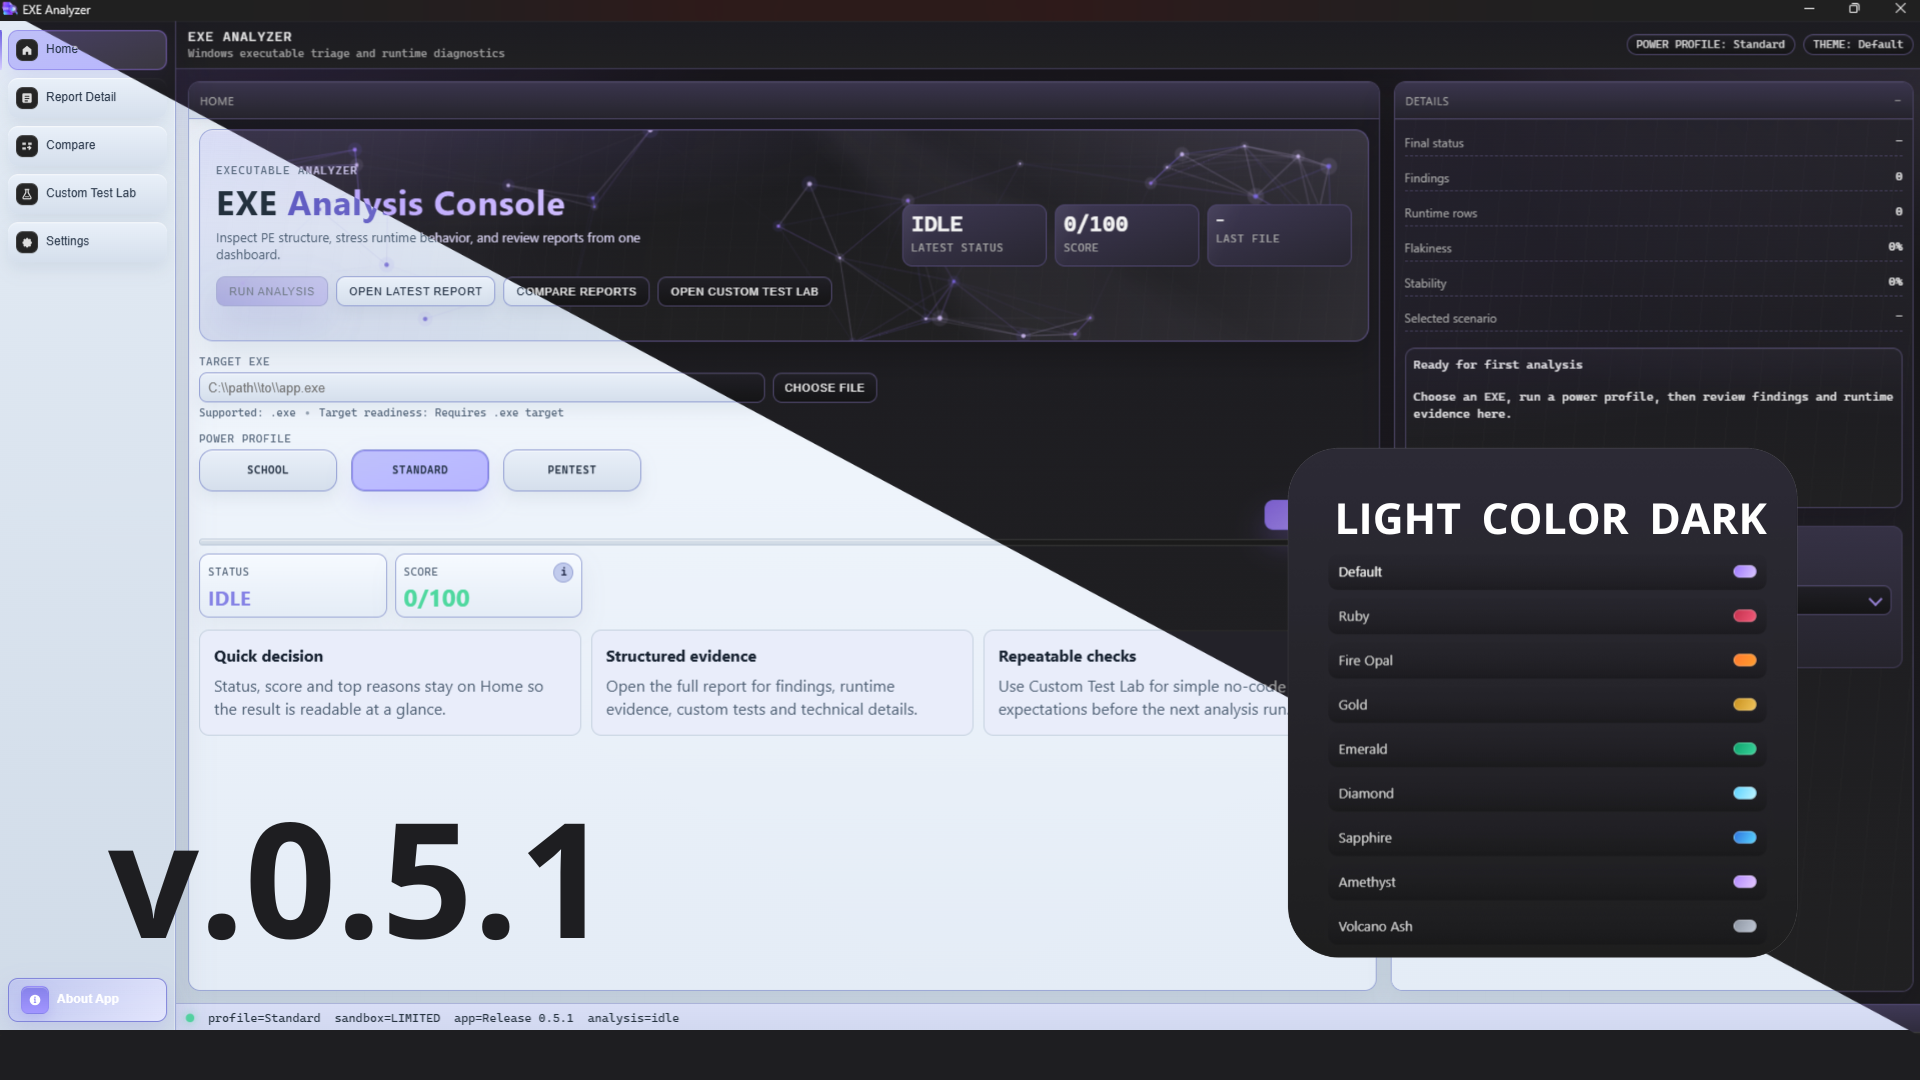
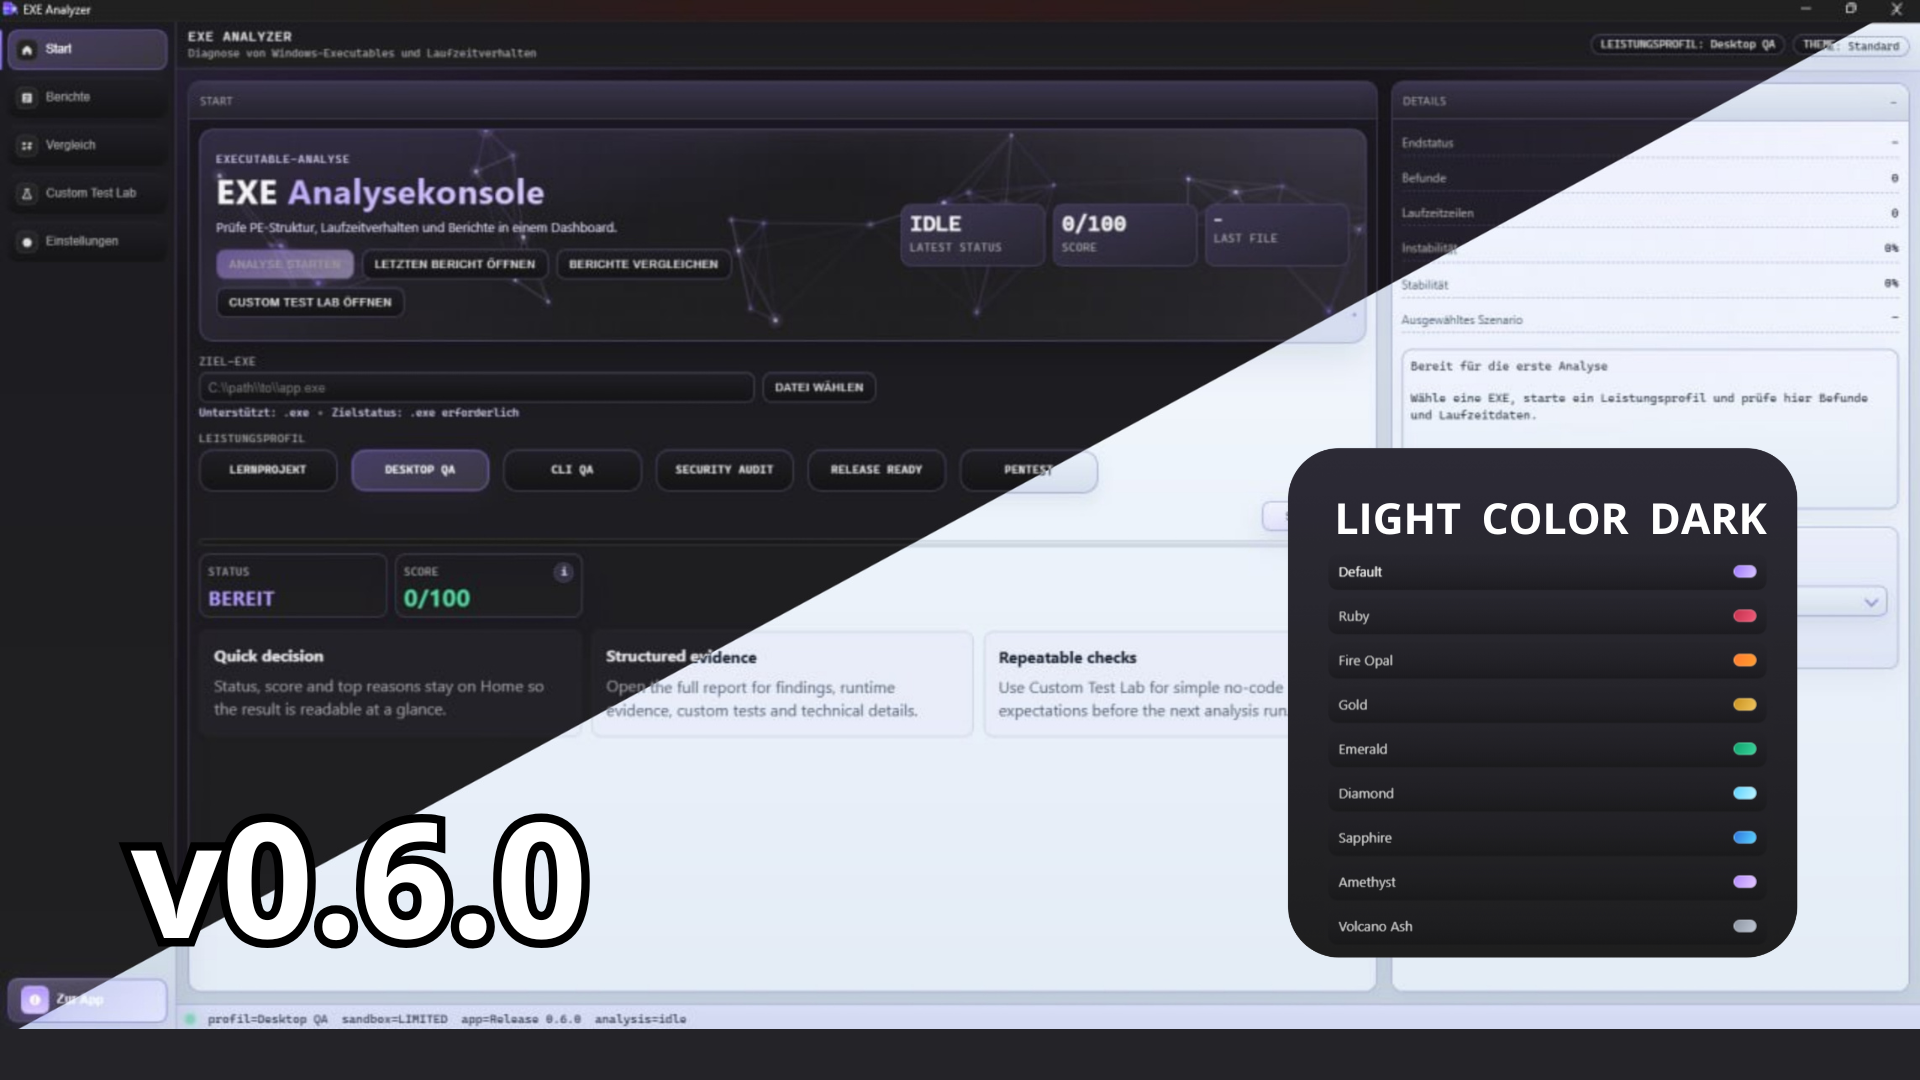
.

diff --git a/src/data/siteContent.ts b/src/data/siteContent.ts
@@ -1,14 +1,11 @@
+import brickBreakerIcon from "../../break_brick/assets/icon.png";
+import clashClanIcon from "../../clash_clan/assets/clash_icon.png";
+import lightFlowIcon from "../../light_flow/assets/icon.png";
 import bypassCleanerIcon from "../assets/apps/bypass-cleaner-icon.ico";
 import bypassCleanerPreview from "../assets/apps/bypass-cleaner-preview.png";
 import exeAnalyserIcon from "../assets/apps/exe-analyser-icon.ico";
 import exeAnalyserPreview from "../assets/apps/exe-analyser-preview.png";
 import brickBreakerPreview from "../assets/BrickBreaker.jpg";
-import lightFlowPreview from "../assets/NeonFlow.jpg";
-import mineSweeperPreview from "../assets/Minesweepers.jpg";
-import clashClanIcon from "../../clash_clan/assets/clash_icon.png";
-import brickBreakerIcon from "../../break_brick/assets/icon.png";
-import lightFlowIcon from "../../light_flow/assets/icon.png";
-import mineSweeperIcon from "../assets/icons/mine.png";
 import gameNavIcon from "../assets/game.svg";
 import cIcon from "../assets/icons/c.svg";
 import cppIcon from "../assets/icons/cpp.svg";
@@ -20,11 +17,14 @@ import javaIcon from "../assets/icons/java.svg";
 import jsIcon from "../assets/icons/js.svg";
 import kotlinIcon from "../assets/icons/kotlin.svg";
 import luaIcon from "../assets/icons/lua.svg";
+import mineSweeperIcon from "../assets/icons/mine.png";
 import pythonIcon from "../assets/icons/py.svg";
 import reactIcon from "../assets/icons/react.svg";
 import rustIcon from "../assets/icons/rust.svg";
 import scssIcon from "../assets/icons/scss.svg";
 import tsIcon from "../assets/icons/ts.svg";
+import mineSweeperPreview from "../assets/Minesweepers.jpg";
+import lightFlowPreview from "../assets/NeonFlow.jpg";
 import type { IconName } from "../components/UiIcon";
 import { appPath } from "../utils/siteRoutes";
 
@@ -186,7 +186,7 @@ const techItems: TechItem[] = [
   { label: "Java", tone: "java", icon: javaIcon },
   { label: "Python", tone: "python", icon: pythonIcon },
   { label: "Lua", tone: "lua", icon: luaIcon },
-  { label: "Kotlin", tone: "kotlin", icon: kotlinIcon }
+  { label: "Kotlin", tone: "kotlin", icon: kotlinIcon },
 ];
 
 const contentByLocale: Record<Locale, LocalizedSiteContent> = {
@@ -200,14 +200,14 @@ const contentByLocale: Record<Locale, LocalizedSiteContent> = {
       heroEyebrow: "home page",
       heroTitle: "MetsUwUki",
       heroRole: "Software Developer",
-      heroDescription: "I'm a software Full-Stack developer. Here are my languages. Move mouse on them to see info about my experience: Green = good, Yellow = quite well, Red = some experience.",
+      heroDescription:
+        "I'm a software Full-Stack developer. Here are my languages. Move mouse on them to see info about my experience: Green = good, Yellow = quite well, Red = some experience.",
       portraitAlt: "Metsuwuki portrait",
       discordPresenceId: "836229144701829140",
       uniqueVisitorsLabel: "Unique visitors",
       writeLabel: "Message",
       gamesTitle: "Games",
-      gamesDescription:
-        "Small browser games.",
+      gamesDescription: "Small browser games.",
       gamesCardEyebrow: "Browser game",
       gamesMinesweeperTitle: "Minesweeper",
       gamesMinesweeperText:
@@ -249,7 +249,8 @@ const contentByLocale: Record<Locale, LocalizedSiteContent> = {
       ctaText:
         "The main entry point of the project: server atmosphere, navigation, and key directions in one place.",
       guestbookTitle: "Guestbook",
-      guestbookDescription: "Leave a message, idea, or quick feedback. Entries are saved as posts.",
+      guestbookDescription:
+        "Leave a message, idea, or quick feedback. Entries are saved as posts.",
       guestbookRepo: "metsuwuki/metsuwuki.github.io",
       guestbookLabel: "guestbook",
       guestbookDateLocale: "en-US",
@@ -270,19 +271,25 @@ const contentByLocale: Record<Locale, LocalizedSiteContent> = {
       openMenuAria: "Open menu",
       closeMenuAria: "Close menu",
       localeSwitcherAria: "Page language",
-      footerCopy: "© 2026 METSUWUKI. Software development, applications, and projects."
+      footerCopy:
+        "© 2026 METSUWUKI. Software development, applications, and projects.",
     },
     navigation: [
       { label: "Home", href: "#overview", icon: "home" },
       { label: "Games", href: "#games", icon: "apps", image: gameNavIcon },
       { label: "Guestbook", href: "#guestbook", icon: "write" },
       { label: "KAGAMI-Server", href: animesitePath, icon: "discord" },
-      { label: "Clash Clan", href: clashClanPath, icon: "shield", image: clashClanIcon }
+      {
+        label: "Clash Clan",
+        href: clashClanPath,
+        icon: "shield",
+        image: clashClanIcon,
+      },
     ],
     techGroups: [
       { title: "Web stack", items: techItems.slice(0, 6) },
       { title: "Low-level", items: techItems.slice(6, 10) },
-      { title: "Other", items: techItems.slice(10) }
+      { title: "Other", items: techItems.slice(10) },
     ],
     appCards: [
       {
@@ -296,42 +303,46 @@ const contentByLocale: Record<Locale, LocalizedSiteContent> = {
           "https://github.com/metsuwuki/ByPass_Cleaner/releases/download/v.0.4.0-alpha/ByPass.Cleaner.Setup.exe",
         accent: "violet",
         tags: ["Quarantine", "Preview", "Logs"],
-        highlights: ["folder scanning", "forced delete", "process terminate"]
+        highlights: ["folder scanning", "forced delete", "process terminate"],
       },
       {
         title: "EXE-Analyser",
-        version: "13.05.2026 - v.0.5.1-beta",
+        version: "08.06.2026 - v0.6.0",
         subtitle: "exe analyser",
         text: "Utility for `.exe` analysis with PE checks, runtime scenarios, risk scoring, uploading your own Unit tests and export to practical formats.",
         preview: exeAnalyserPreview,
         icon: exeAnalyserIcon,
         downloadHref:
-          "https://github.com/metsuwuki/EXE-Programs-Analyser/releases/download/v.0.5.1-beta/EXE_Analyzer_Setup_0.5.1.exe",
+          "https://github.com/metsuwuki/EXE-Programs-Analyser/releases/download/v0.6.0/EXE_Analyzer_Setup_0.6.0.exe",
         accent: "cyan",
         tags: ["PE", "Runtime", "Export"],
-        highlights: ["entropy and imports", "stress scenarios", "html/json/markdown"]
-      }
+        highlights: [
+          "entropy and imports",
+          "stress scenarios",
+          "html/json/markdown",
+        ],
+      },
     ],
     destinationCards: [
       {
         title: "KAGAMI-Server",
         text: "Main server page with atmosphere, navigation, and core project directions.",
         href: animesitePath,
-        accent: "violet"
+        accent: "violet",
       },
       {
         title: "Clash Clan",
         text: "Clan management dashboard for rosters, war participation, transfers, and blacklist control.",
         href: clashClanPath,
-        accent: "peach"
+        accent: "peach",
       },
       {
         title: "GitHub",
         text: "Code, releases, and technical details without showcase noise.",
         href: "https://github.com/metsuwuki",
-        accent: "cyan"
-      }
-    ]
+        accent: "cyan",
+      },
+    ],
   },
   ru: {
     siteMeta: {
@@ -393,7 +404,8 @@ const contentByLocale: Record<Locale, LocalizedSiteContent> = {
       ctaText:
         "Главная входная точка проекта: атмосфера сервера, навигация и всё основное в одном месте. GitHub остается рядом как техническая часть.",
       guestbookTitle: "Книга гостей",
-      guestbookDescription: "Оставь сообщение, идею или короткий фидбек. Записи сохраняются и остаются как посты.",
+      guestbookDescription:
+        "Оставь сообщение, идею или короткий фидбек. Записи сохраняются и остаются как посты.",
       guestbookRepo: "metsuwuki/metsuwuki.github.io",
       guestbookLabel: "guestbook",
       guestbookDateLocale: "ru-RU",
@@ -414,19 +426,24 @@ const contentByLocale: Record<Locale, LocalizedSiteContent> = {
       openMenuAria: "Открыть меню",
       closeMenuAria: "Закрыть меню",
       localeSwitcherAria: "Язык страницы",
-      footerCopy: "© 2026 METSUWUKI. Разработка ПО, приложения и проекты."
+      footerCopy: "© 2026 METSUWUKI. Разработка ПО, приложения и проекты.",
     },
     navigation: [
       { label: "Главная", href: "#overview", icon: "home" },
       { label: "Игры", href: "#games", icon: "apps", image: gameNavIcon },
       { label: "Книга гостей", href: "#guestbook", icon: "write" },
       { label: "KAGAMI-Server", href: animesitePath, icon: "discord" },
-      { label: "Clash Clan", href: clashClanPath, icon: "shield", image: clashClanIcon }
+      {
+        label: "Clash Clan",
+        href: clashClanPath,
+        icon: "shield",
+        image: clashClanIcon,
+      },
     ],
     techGroups: [
       { title: "Веб-стек", items: techItems.slice(0, 6) },
       { title: "Низкий уровень", items: techItems.slice(6, 10) },
-      { title: "Остальное", items: techItems.slice(10) }
+      { title: "Остальное", items: techItems.slice(10) },
     ],
     appCards: [
       {
@@ -440,43 +457,51 @@ const contentByLocale: Record<Locale, LocalizedSiteContent> = {
           "https://github.com/metsuwuki/ByPass_Cleaner/releases/download/v.0.4.0-alpha/ByPass.Cleaner.Setup.exe",
         accent: "violet",
         tags: ["Карантин", "Предпросмотр", "Логи"],
-        highlights: ["сканирование папок", "принудительное удаление", "завершение процессов"]
+        highlights: [
+          "сканирование папок",
+          "принудительное удаление",
+          "завершение процессов",
+        ],
       },
       {
         title: "EXE-Analyser",
-        version: "13.05.2026 - v.0.5.1-beta",
+        version: "08.06.2026 - v0.6.0",
         subtitle: "анализатор exe",
         text: "Инструмент для разбора `.exe` с PE-проверками, runtime-сценариями, оценкой риска, загрузкой своих Unit тестов и экспортом результатов в удобные форматы.",
         preview: exeAnalyserPreview,
         icon: exeAnalyserIcon,
         downloadHref:
-          "https://github.com/metsuwuki/EXE-Programs-Analyser/releases/download/v.0.5.1-beta/EXE_Analyzer_Setup_0.5.1.exe",
+          "https://github.com/metsuwuki/EXE-Programs-Analyser/releases/download/v0.6.0/EXE_Analyzer_Setup_0.6.0.exe",
         accent: "cyan",
         tags: ["PE", "Runtime", "Экспорт"],
-        highlights: ["энтропия и импорты", "стресс-сценарии", "html/json/markdown"]
-      }
+        highlights: [
+          "энтропия и импорты",
+          "стресс-сценарии",
+          "html/json/markdown",
+        ],
+      },
     ],
     destinationCards: [
       {
         title: "KAGAMI-Server",
         text: "Главная страница сервера: вход в атмосферу, навигация и основное направление проекта.",
         href: animesitePath,
-        accent: "violet"
+        accent: "violet",
       },
       {
         title: "Clash Clan",
         text: "Clan management dashboard для составов, войн, переносов игроков и blacklist.",
         href: clashClanPath,
-        accent: "peach"
+        accent: "peach",
       },
       {
         title: "GitHub",
         text: "Код, релизы и открытая техническая часть без лишнего витринного текста.",
         href: "https://github.com/metsuwuki",
-        accent: "cyan"
-      }
-    ]
-  }
+        accent: "cyan",
+      },
+    ],
+  },
 };
 
 export const defaultLocale: Locale = "en";
@@ -498,7 +523,7 @@ export const discordPresenceFallback: DiscordPresenceFallback = {
   accentColor: "#7d2bf9",
   status: "dnd",
   activityName: "Visual Studio Code",
-  activePlatform: "Desktop"
+  activePlatform: "Desktop",
 };
 
 export const socialLinks = {
@@ -509,23 +534,23 @@ export const socialLinks = {
   lightFlow: lightFlowPath,
   discordProfile: "https://discord.com/users/836229144701829140",
   github: "https://github.com/metsuwuki",
-  apps: "#apps"
+  apps: "#apps",
 };
 
 export const gameCards = {
   mineSweeper: {
     href: mineSweeperLaunchPath,
     icon: mineSweeperIcon,
-    preview: mineSweeperPreview
+    preview: mineSweeperPreview,
   },
   brickBreaker: {
     href: breakBrickLaunchPath,
     icon: brickBreakerIcon,
-    preview: brickBreakerPreview
+    preview: brickBreakerPreview,
   },
   lightFlow: {
     href: lightFlowLaunchPath,
     icon: lightFlowIcon,
-    preview: lightFlowPreview
-  }
+    preview: lightFlowPreview,
+  },
 };
